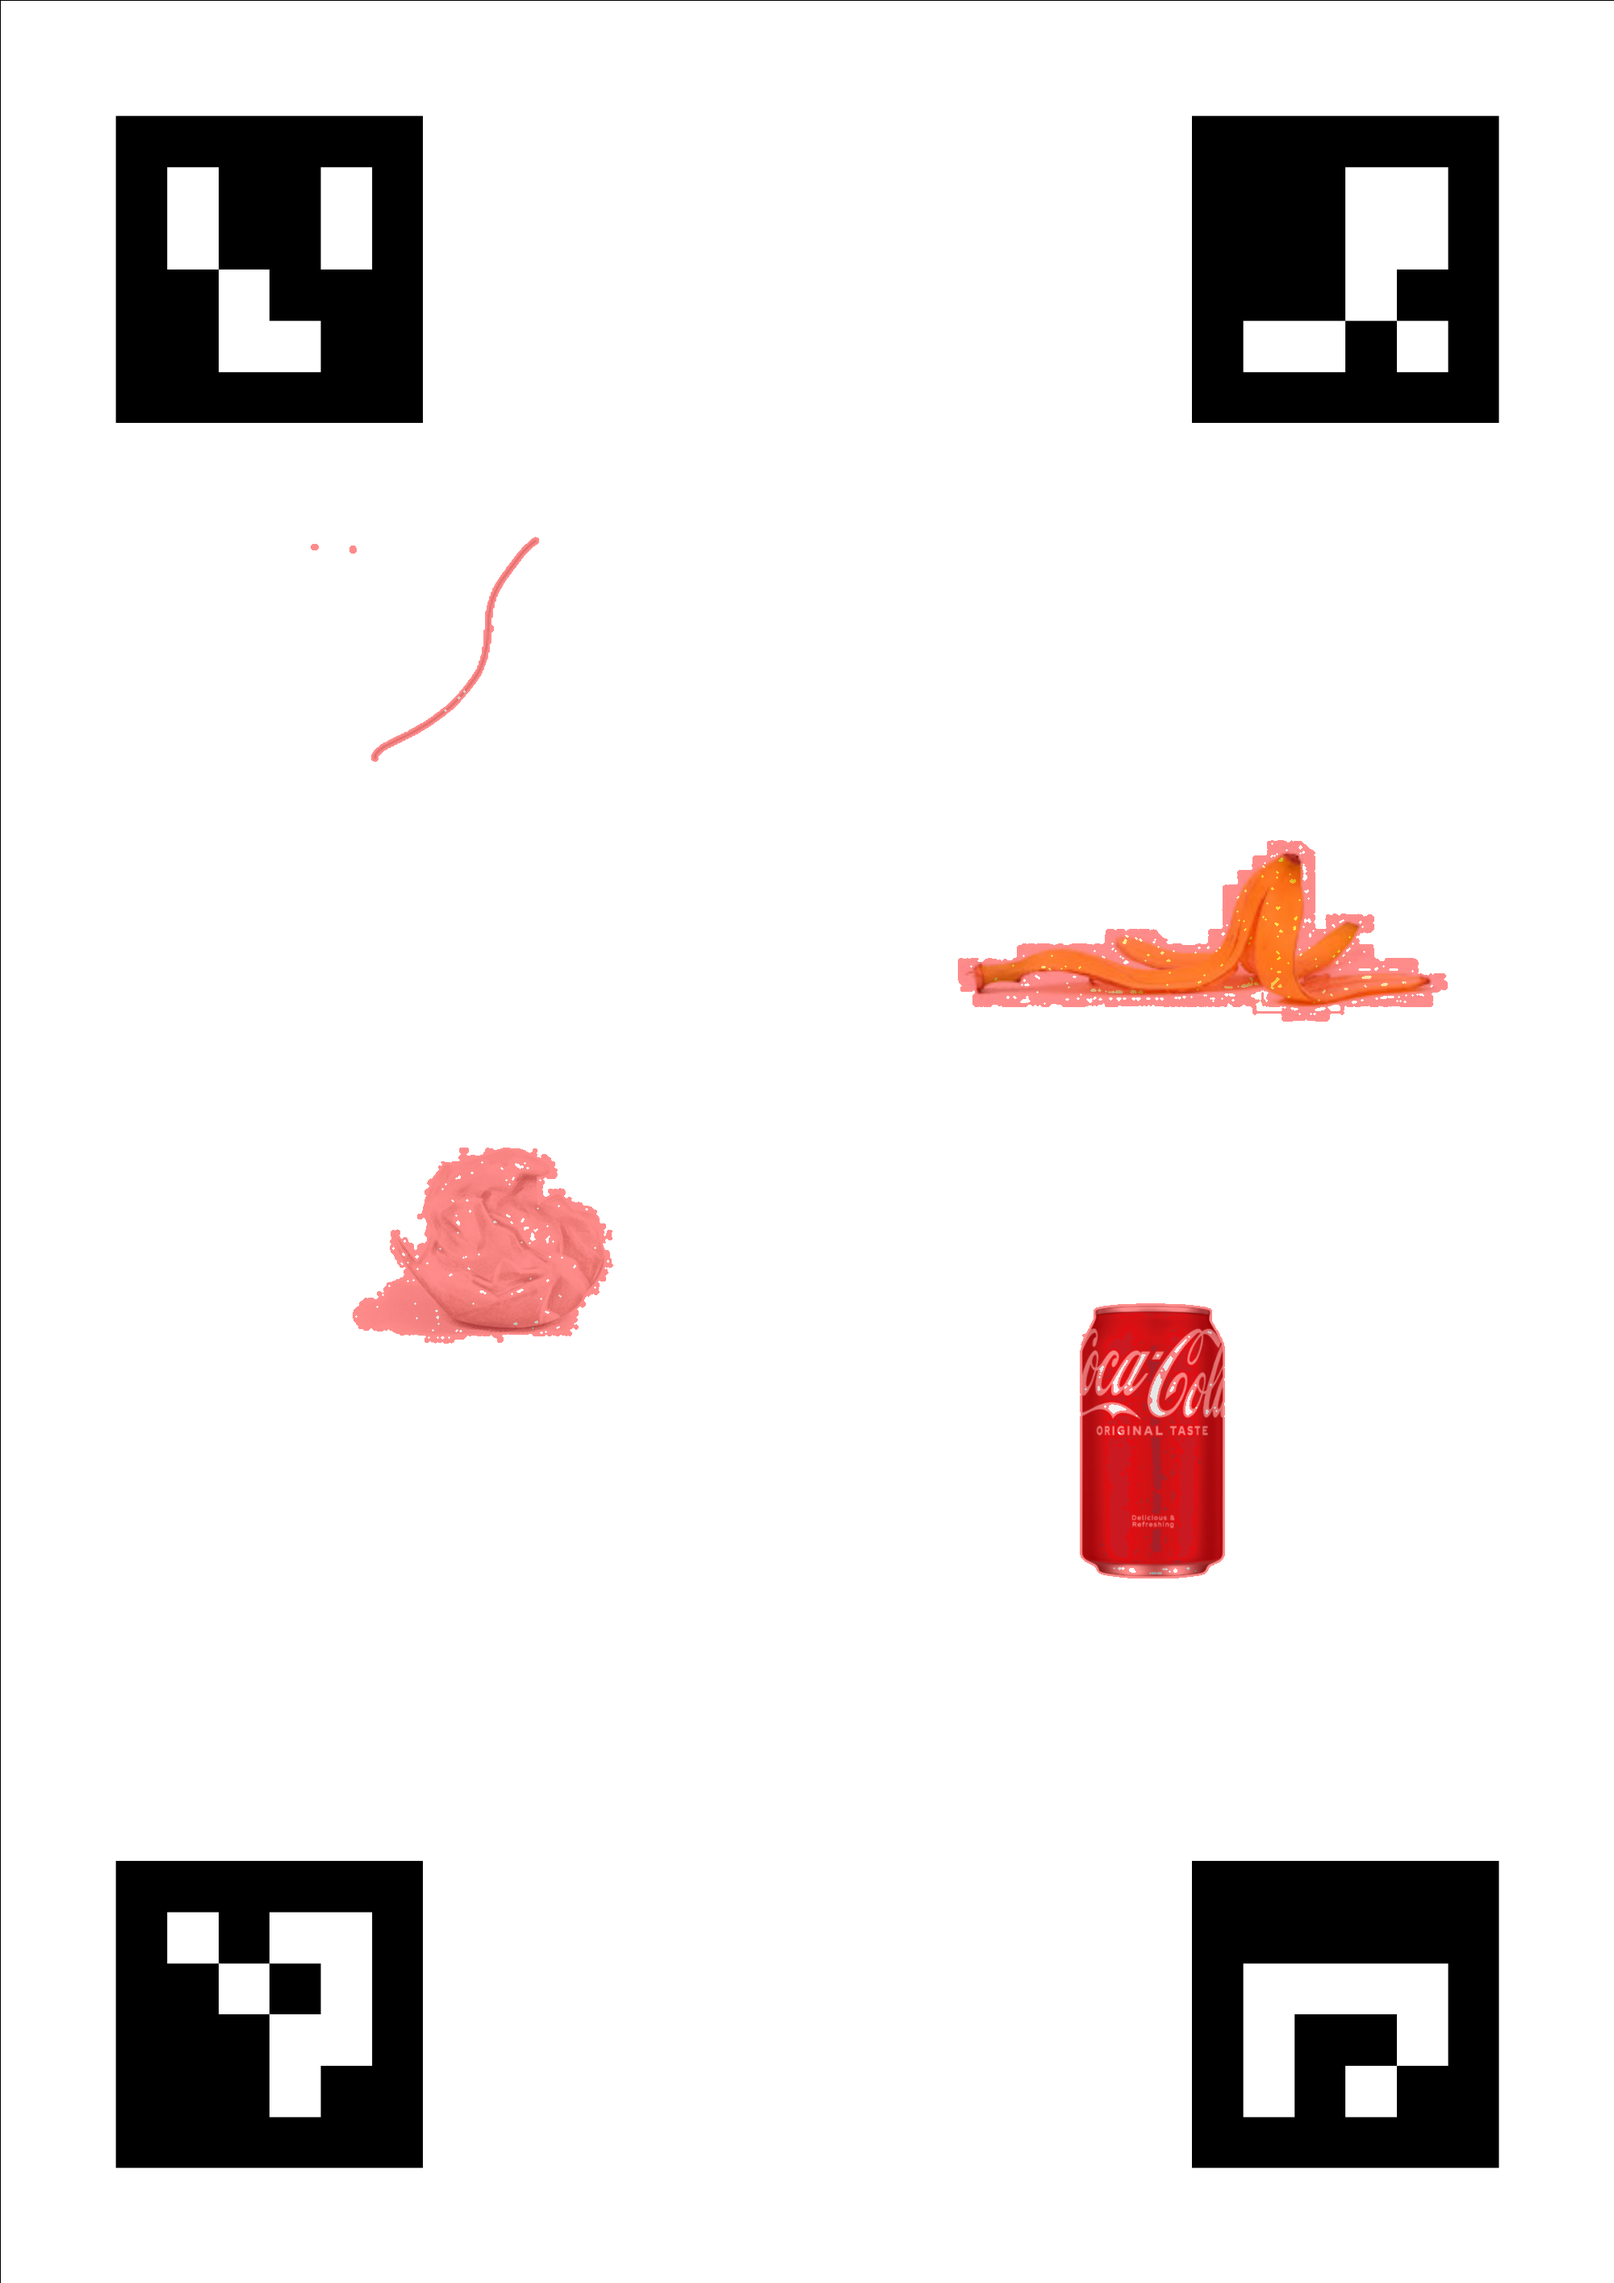
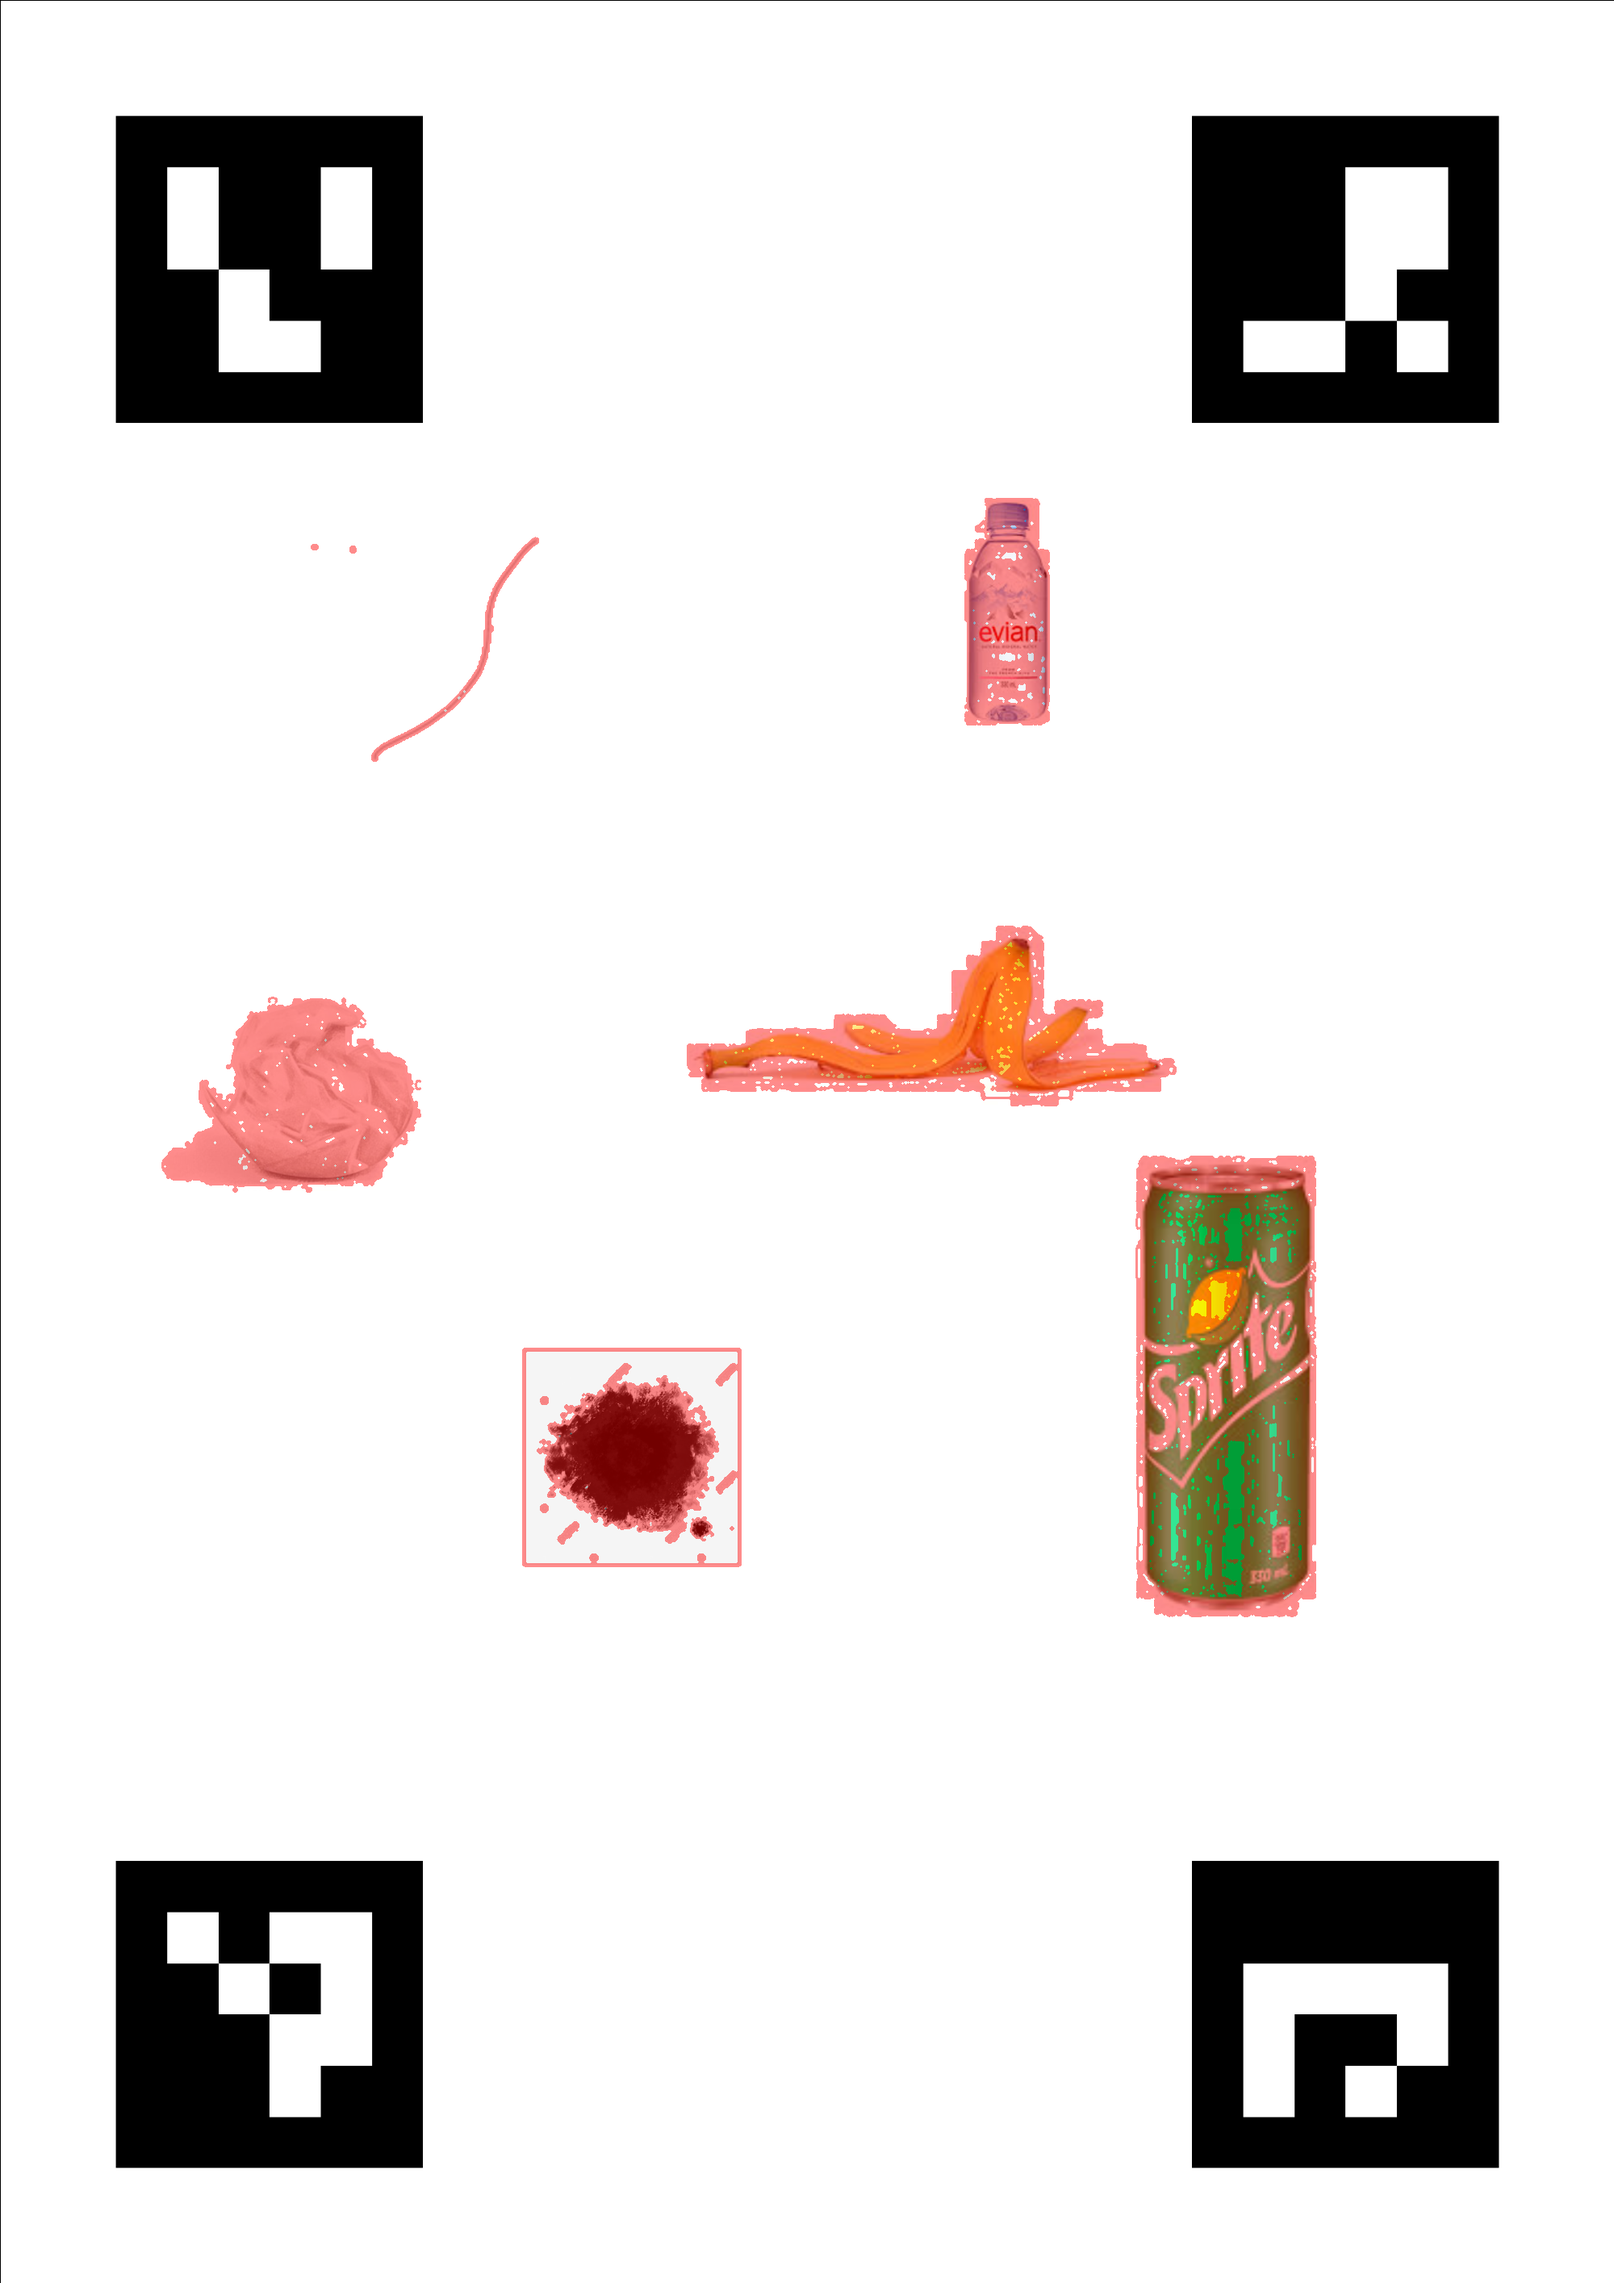
串接 yolo coco

Changed region(s): [[0.434, 0.3422, 0.899, 0.7154], [0.093, 0.4355, 0.465, 0.6843], [0.589, 0.2177, 0.651, 0.3422]]

diff --git a/recognition.py b/recognition.py
@@ -1,0 +1,114 @@
+#!/usr/bin/env python3
+# -*- coding: utf-8 -*-
+
+import os
+import glob
+import json
+import cv2
+import numpy as np
+from ultralytics import YOLO
+
+
+def list_patches(patch_dir: str, exts=(".png", ".jpg", ".jpeg")):
+    paths = []
+    for ext in exts:
+        paths.extend(glob.glob(os.path.join(patch_dir, f"*{ext}")))
+    return sorted(paths)
+
+
+class YoloPatchRecognizer:
+    """
+    用 COCO 預訓練 YOLO(detect) 對 ROI patches 做粗辨識：
+    - 有偵測：回傳 top-1 label/conf
+    - 無偵測：label=unknown, conf=0
+    """
+
+    def __init__(self, weights: str, imgsz: int = 320, conf: float = 0.25, iou: float = 0.45):
+        self.weights = weights
+        self.imgsz = imgsz
+        self.conf = conf
+        self.iou = iou
+        self.model = YOLO(self.weights)
+        self.names = self.model.names
+
+    def predict_one(self, patch_path: str):
+        results = self.model.predict(
+            source=patch_path,
+            imgsz=self.imgsz,
+            conf=self.conf,
+            iou=self.iou,
+            verbose=False
+        )
+        res = results[0]
+
+        pred = {
+            "patch": os.path.basename(patch_path),
+            "label": "unknown",
+            "conf": 0.0,
+            "has_box": False,
+            "box_xyxy": None
+        }
+
+        if res.boxes is not None and len(res.boxes) > 0:
+            confs = res.boxes.conf.cpu().numpy()
+            clss  = res.boxes.cls.cpu().numpy().astype(int)
+            xyxy  = res.boxes.xyxy.cpu().numpy()
+
+            best = int(np.argmax(confs))
+            pred["conf"] = float(confs[best])
+            cls_id = int(clss[best])
+            pred["label"] = str(self.names.get(cls_id, f"class_{cls_id}"))
+            pred["has_box"] = True
+            pred["box_xyxy"] = xyxy[best].astype(int).tolist()
+
+        return pred
+
+    def attach_to_rois(self, rois, patch_dir: str, name_fmt: str = "roi_{i:03d}.png"):
+        """
+        對每個 ROI 對應的 patch 做 YOLO，結果掛回 roi["yolo"]。
+        回傳 (rois, preds_list)
+        """
+        preds = []
+        for i, r in enumerate(rois, 1):
+            patch_name = name_fmt.format(i=i)
+            patch_path = os.path.join(patch_dir, patch_name)
+
+            if os.path.exists(patch_path):
+                p = self.predict_one(patch_path)
+            else:
+                p = {"patch": patch_name, "label": "unknown", "conf": 0.0, "has_box": False, "box_xyxy": None}
+
+            r["yolo"] = {"label": p["label"], "conf": p["conf"]}
+            preds.append(p)
+
+        return rois, preds
+
+    @staticmethod
+    def save_json(preds, out_json_path: str):
+        os.makedirs(os.path.dirname(out_json_path), exist_ok=True)
+        with open(out_json_path, "w", encoding="utf-8") as f:
+            json.dump(preds, f, ensure_ascii=False, indent=2)
+
+    @staticmethod
+    def visualize_many(patch_dir: str, preds, out_dir: str):
+        os.makedirs(out_dir, exist_ok=True)
+        pred_map = {p["patch"]: p for p in preds}
+
+        for pth in list_patches(patch_dir):
+            bn = os.path.basename(pth)
+            pred = pred_map.get(bn, {"label": "unknown", "conf": 0.0, "has_box": False, "box_xyxy": None})
+
+            img = cv2.imread(pth)
+            if img is None:
+                continue
+
+            if pred["has_box"] and pred["box_xyxy"] is not None:
+                x1, y1, x2, y2 = pred["box_xyxy"]
+                cv2.rectangle(img, (x1, y1), (x2, y2), (0, 0, 255), 2)
+                cv2.putText(img, f"{pred['label']} {pred['conf']:.2f}", (x1, max(0, y1-8)),
+                            cv2.FONT_HERSHEY_SIMPLEX, 0.6, (0,0,255), 2)
+            else:
+                cv2.putText(img, "unknown", (10, 30),
+                            cv2.FONT_HERSHEY_SIMPLEX, 1.0, (0,0,255), 2)
+
+            cv2.imwrite(os.path.join(out_dir, bn), img)

diff --git a/compare_diff.py b/compare_diff.py
@@ -4,7 +4,7 @@
 import os
 import cv2
 import numpy as np
-
+import recognition
 # =========================
 # I/O
 # =========================
@@ -253,7 +253,18 @@ def draw_rois(img_bgr, rois):
     for i, r in enumerate(rois, 1):
         x, y, w, h = r["x"], r["y"], r["w"], r["h"]
         cv2.rectangle(out, (x, y), (x+w, y+h), (0, 0, 255), 2)
-        label = f"ROI{i} A={int(r['area'])} AR={r['aspect']:.1f} ({r['cx_mm']:.1f},{r['cy_mm']:.1f}mm)"
+
+        yolo = r.get("yolo", None)
+        if yolo:
+            y_txt = f"{yolo['label']} {yolo['conf']:.2f}"
+        else:
+            y_txt = "no-yolo"
+
+        label = (
+            f"ROI{i} {y_txt} "
+            f"A={int(r['area'])} AR={r['aspect']:.1f} "
+            f"({r['cx_mm']:.1f},{r['cy_mm']:.1f}mm)"
+        )
         cv2.putText(out, label, (x, max(0, y-8)),
                     cv2.FONT_HERSHEY_SIMPLEX, 0.55, (0,0,255), 2)
     return out
@@ -299,6 +310,18 @@ def main():
 
     # 3) 裁切 patches（給 YOLO/SAHI 用）
     save_patches(cur_warp, rois)
+
+      # 4) YOLO 粗辨識（COCO 預訓練，不用自己訓練）
+    yolo_weights = "yolov8n.pt"  # 你專案根目錄已有這個檔
+    recog = recognition.YoloPatchRecognizer(weights=yolo_weights, imgsz=320, conf=0.25, iou=0.45)
+
+    rois, preds = recog.attach_to_rois(rois, PATCH_DIR)
+    recog.save_json(preds, os.path.join(OUT_DIR, "roi_predictions_yolo.json"))
+    recog.visualize_many(PATCH_DIR, preds, os.path.join(OUT_DIR, "yolo_test"))
+
+    # 5) 重新輸出一張「含 YOLO label」的框選圖
+    result_boxes_yolo = draw_rois(cur_warp, rois)
+    cv2.imwrite(os.path.join(OUT_DIR, "result_rois_with_yolo.png"), result_boxes_yolo)
 
     # 4) ROI 文字輸出（方便後處理）
     txt_path = os.path.join(OUT_DIR, "rois.txt")

diff --git a/README.md b/README.md
@@ -55,26 +55,33 @@
 
 ---
 
-### Step 3: YOLO 分類器判定 (AI Classification)（下一步）
-- **ROI patches**：將每個 ROI 裁切成小圖塊（patch），輸出到 `out/patches/`
-- **模型判定**：將 patches 丟入 YOLO（或 SAHI + YOLO）做分類  
-  - **確認髒污**：Hair / Debris / Stain  
-  - **排除誤報**：Shadow / Light Flash / Background changes
+### Step 3: YOLO 分類器判定 (AI Classification)
+本次已完成「ROI patches → YOLO（COCO 預訓練）粗辨識」整合，用來示範：
+- **常見物件**（例如 bottle / cup / cell phone / book / keyboard）可被 YOLO 正確分類
+- **髒污類**（頭髮、灰塵、污漬）通常不在 COCO 類別中，會顯示 `unknown`，但仍可透過 diff/ROI 被穩定抓出（後續可再自建髒污資料訓練）
 
-> 本次進度先完成「定位 → 對齊 → diff → ROI/patches」；YOLO 分類整合會接續加入。
+輸出：
+- `out/patches/roi_XXX.png`：每個 ROI 的裁切 patch
+- `out/roi_predictions_yolo.json`：每個 patch 的 top-1 label/conf
+- `out/yolo_test/*.png`：patch 視覺化（含 top-1 框與 label）
 
 ---
 
 ### Step 4: 結果輸出與定位 (Output & Localization)
-- **結果框選**：在 `warped_current` 上畫出 ROI 框並標註資訊
+- **結果框選**：在 `warped_current` 上畫出 ROI 框並標註資訊（含 mm 座標）
 - **mask 疊圖**：將 `diff_mask` 以半透明方式疊在 current，快速肉眼驗證抓取區域
 - **相對座標（mm）**：把 ROI 中心點從 warp 像素座標換算回 A4 的 mm 座標（可延伸到 cm、或對應房間平面）
+- **YOLO 標籤回寫**：將 YOLO 預測結果 attach 回 ROI，輸出「含 YOLO label」的最終框選圖
 
 輸出檔：
 - `result_rois_on_current.png`：ROI 框選結果圖（含中心點 mm）
 - `result_mask_overlay.png`：diff_mask 疊圖（最直覺看抓到哪）
+- `result_rois_with_yolo.png`：ROI 框選結果圖（含 YOLO label/conf）
 - `patches/roi_XXX.png`：每個 ROI 的裁切 patch
-- `rois.txt`：每個 ROI 的座標、面積、中心點 mm（後續可餵給 YOLO 或做統計）
+- `roi_predictions_yolo.json`：每個 ROI patch 的 YOLO top-1 預測
+- `rois.txt`：每個 ROI 的座標、面積、中心點 mm（後續可做統計或餵下一階段模型）
+
+---
 
 ## 4. 檔案結構與描述 (Files)
 
@@ -100,12 +107,21 @@ RoomSpotter/
 │     ├─ diff_mask.png
 │     ├─ result_rois_on_current.png
 │     ├─ result_mask_overlay.png
+│     ├─ result_rois_with_yolo.png
 │     ├─ rois.txt
+│     ├─ roi_predictions_yolo.json
+│     ├─ yolo_test/
+│     │  ├─ roi_001.png
+│     │  └─ ...
 │     └─ patches/
 │        ├─ roi_001.png
 │        └─ ...
 ├─ generate_locator_sheet.py      # 產生 A4 定位底紙（四角 ArUco）
-└─ compare_diff_final.py          # baseline/current 對齊 + diff + ROI + 輸出結果
+├─ compare_diff.py                # baseline/current 對齊 + diff + ROI + patches +（可選）YOLO 整合
+├─ recognition.py                        # YOLO patch 辨識模組（可被 compare_diff import）
+└─ yolov8n.pt                     # COCO 預訓練權重（Ultralytics）
+
+
 
 ```
 
@@ -116,9 +132,38 @@ RoomSpotter/
 | 類別 | 使用技術 |
 | :--- | :--- |
 | 程式語言 | Python 3.10+ |
-| 影像處理 | OpenCV (ArUco, warpPerspective, absdiff, Sobel, Canny) |
-| 深度學習 | YOLOv8 / YOLOv10（下一步整合） |
+| 影像處理 | OpenCV（ArUco、warpPerspective、absdiff、Sobel、Canny） |
+| 深度學習 | YOLOv8 / YOLOv10（本 PoC 先用 COCO 預訓練做粗分類；後續可再訓練髒污專用模型） |
 | 輔助工具 | NumPy、（可選）SAHI（切片推論） |
 
 ---
 
+## 6. 快速啟動 (Quick Start)
+
+### 6.1 安裝環境
+
+### 6.1 安裝環境
+
+> 建議用 requirements.txt（版本一致、最穩）
+
+```bash
+pip install -r requirements.txt
+```
+
+### 6.2 生成 A4 定位底紙
+
+```bash
+python generate_locator.py
+```
+
+### 6.3 準備 baseline / current
+把你拍的兩張照片放進：
+- `locator/baseline.png`
+- `locator/current.png`
+
+> 建議：拍攝時四角 ArUco 都要入鏡且清晰，current 可以歪、遠近不同、解析度不同都沒關係，因為會先做透視校正。
+
+### 6.4 執行比對 + ROI + patches + YOLO
+```bash
+python compare_diff.py
+```
